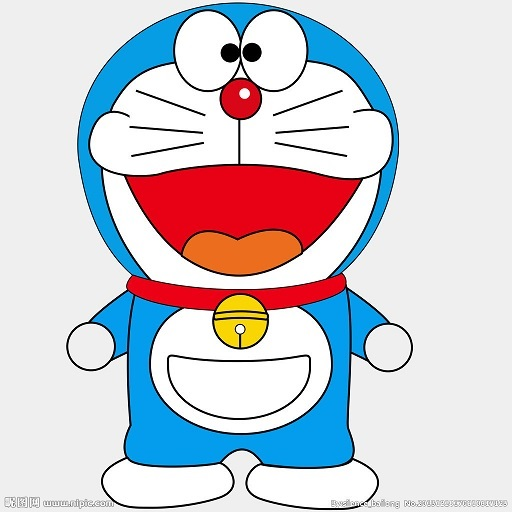
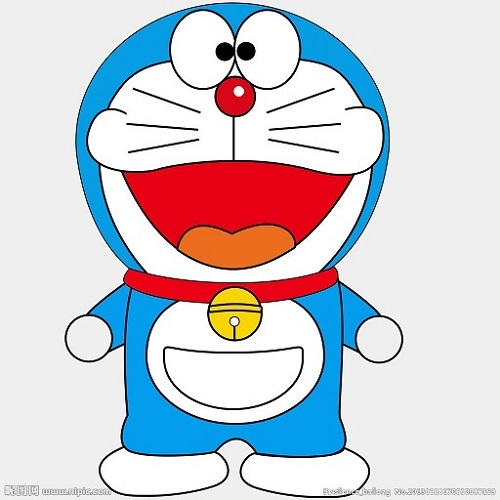
继续实现， 画了眼睛和鼻子和鼻沟。胡须刚开始画，还没画完

diff --git a/css/carton/doraemon.css b/css/carton/doraemon.css
@@ -2,6 +2,61 @@ div {
 	/*border: 1px solid #000;*/
 }
 
+
+/*位置选择器*/
+.pos-a {
+	position: absolute;
+}
+
+.pos-r {
+	position: relative;
+}
+
+.m-hoz-auto {
+	margin-left: auto;
+	margin-right: auto;
+}
+
+.left-32 {
+	left: 32px;
+}
+
+.left-5 {
+	left: 5px;
+}
+
+.top-30 {
+	top: 30px;
+}
+
+/*形状选择器*/
+.circle {
+	border-radius: 50%;
+}
+
+
+/*样式选择器*/
+.bacc-white {
+	background-color: white;
+}
+
+.bacc-black {
+	background-color: black;
+}
+
+.bacc-brown-red {
+	background-color: rgb(216, 5, 23);
+}
+
+.border-black-1 {
+	border: 1px solid black;
+}
+
+.border-black-2 {
+	border: 2px solid black;
+}
+
+/*卡通组件*/
 .doraemon {
 	height: 500px;
 	width: 500px;
@@ -9,23 +64,21 @@ div {
 
 .head {
 	background-color: rgb(2, 159, 227);
-	border-radius: 50%;
 	height: 280px;
 	margin: 0px auto;
+	overflow: hidden;
 	width: 310px;
 }
 
 .eyes {
 	height: 80px;
-	margin: 10px auto;
+	margin: -5px auto 0;
 	padding-top: 10px;
 	width: 120px;
 }
 
 .eye {
-	background-color: #fff;
 	border: 2px solid #000;
-	border-radius: 50%;
 	box-sizing: border-box;
 	height: 80px;
 	width: 60px;
@@ -33,8 +86,63 @@ div {
 
 .eye-left {
 	float: left;
+	margin-left: 2px;
 }
 
 .eye-right {
 	float: right;
+	margin-left: 58px;
+}
+
+.eye-pupil {
+	background-color: black;
+	height: 18px;
+	width: 18px;
+}
+
+.eye-pupil-left {
+	 left: 32px;
+}
+
+.eye-pupil-right {
+	 left: 5px;
+}
+
+.face {
+	border-top-left-radius: 45% 60%;
+	border-top-right-radius: 45% 60%;	
+	border-bottom-left-radius: 80% 95%;
+	border-bottom-right-radius: 80% 95%;
+	height: 230px;
+	margin: -30px auto;
+	width: 255px;
+}
+
+.nose {
+	height: 38px;
+	margin: 16px auto 0;
+	width: 38px;
+}
+
+.nose-light {
+	height: 10px;
+	right: 10px;
+	top: 8px;
+	width: 10px;
+}
+
+.nasal-groove{
+	height: 40px;
+	width: 2px;
+}
+
+.bread-field {
+	height: 40px;
+	margin-top: -40px;
+	width: 240px;
+}
+
+.bread {
+	height: 2px;
+	width: 80px;
 }

diff --git a/pages/carton/doraemon-1.html b/pages/carton/doraemon-1.html
@@ -9,25 +9,27 @@
 </head>
 <body>
 	<div class="doraemon">
-		<div class="head">
+		<div class="circle border-black-1 head">
 			<div class="eyes">
-				<div class="eye eye-left">
-					<div class="eye-pupil"></div>
+				<div class="circle pos-a bacc-white eye eye-left">
+					<div class="circle pos-r top-30 eye-pupil eye-pupil-left"></div>
 				</div>
-				<div class="eye eye-right">
-					<div class="eye-pupil"></div>
+				<div class="circle pos-a bacc-white eye eye-right">
+					<div class="circle pos-r top-30 eye-pupil eye-pupil-right"></div>
 				</div>	
 			</div>
-			<div class="face">
-				<div class="nose"></div>
-				<div class="nasal-groove"></div>
-				<div class="bread">
-					<div class="bread-left-1"></div>
-					<div class="bread-left-2"></div>
-					<div class="bread-left-3"></div>
-					<div class="bread-right1"></div>
-					<div class="bread-right2"></div>
-					<div class="bread-right3"></div>					
+			<div class="border-black-2 bacc-white face">
+				<div class="circle pos-r border-black-2 bacc-brown-red nose">
+					<div class="circle pos-a bacc-white nose-light"></div>
+				</div>
+				<div class="m-hoz-auto bacc-black nasal-groove"></div>
+				<div class="m-hoz-auto pos-r border-black-1 bread-field">
+					<div class="bacc-black bread bread-left-1"></div>
+					<div class="bacc-black bread bread-left-2"></div>
+					<div class="bacc-black bread bread-left-3"></div>
+					<div class="bacc-black bread bread-right1"></div>
+					<div class="bacc-black bread bread-right2"></div>
+					<div class="bacc-black bread bread-right3"></div>					
 				</div>
 			</div>
 			<div class="lips">
